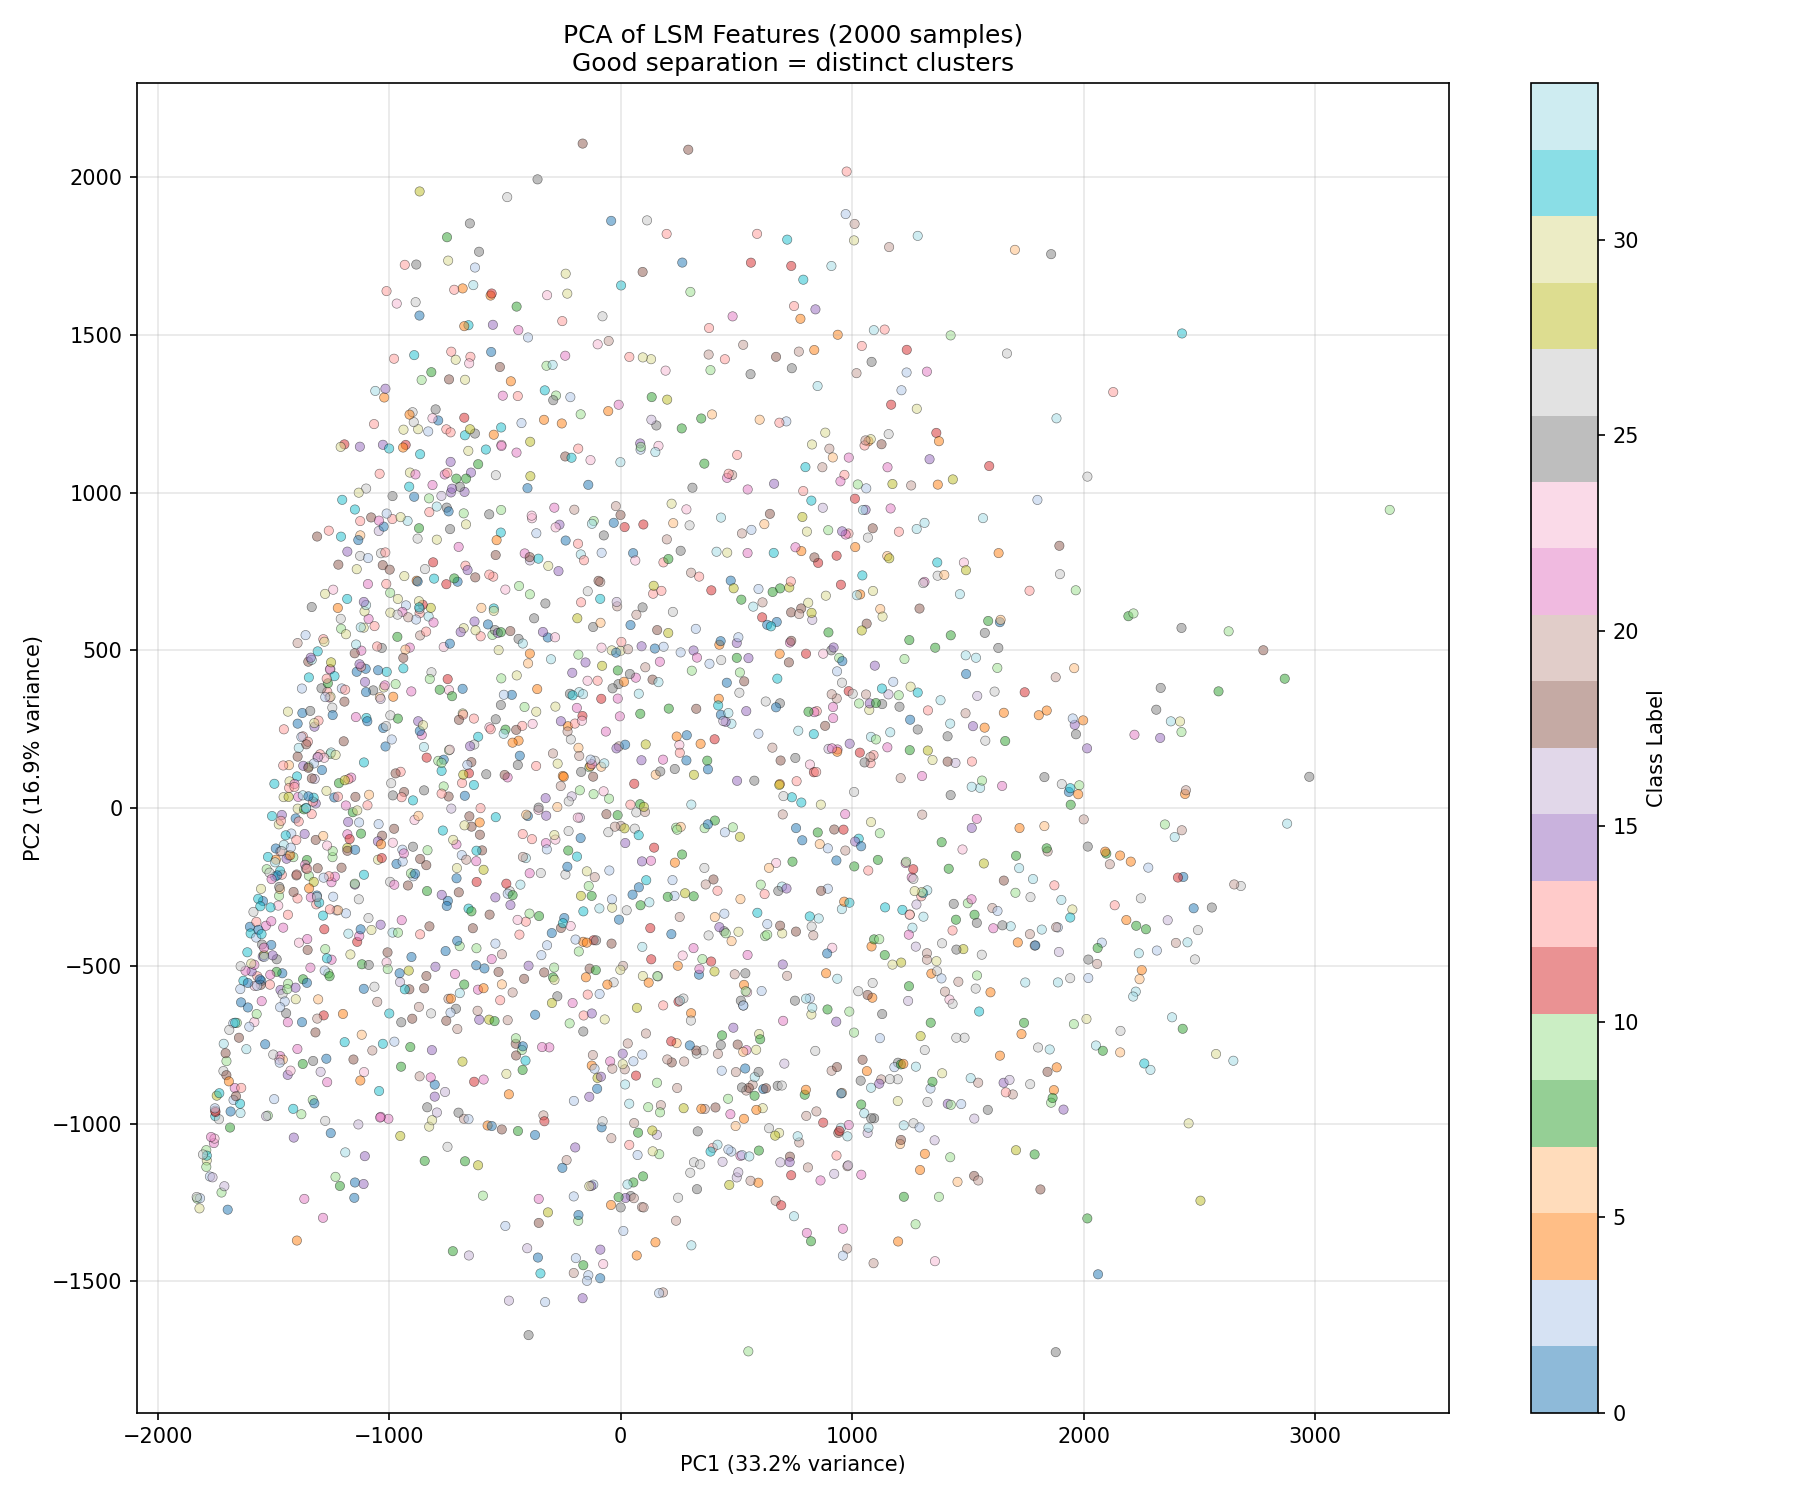
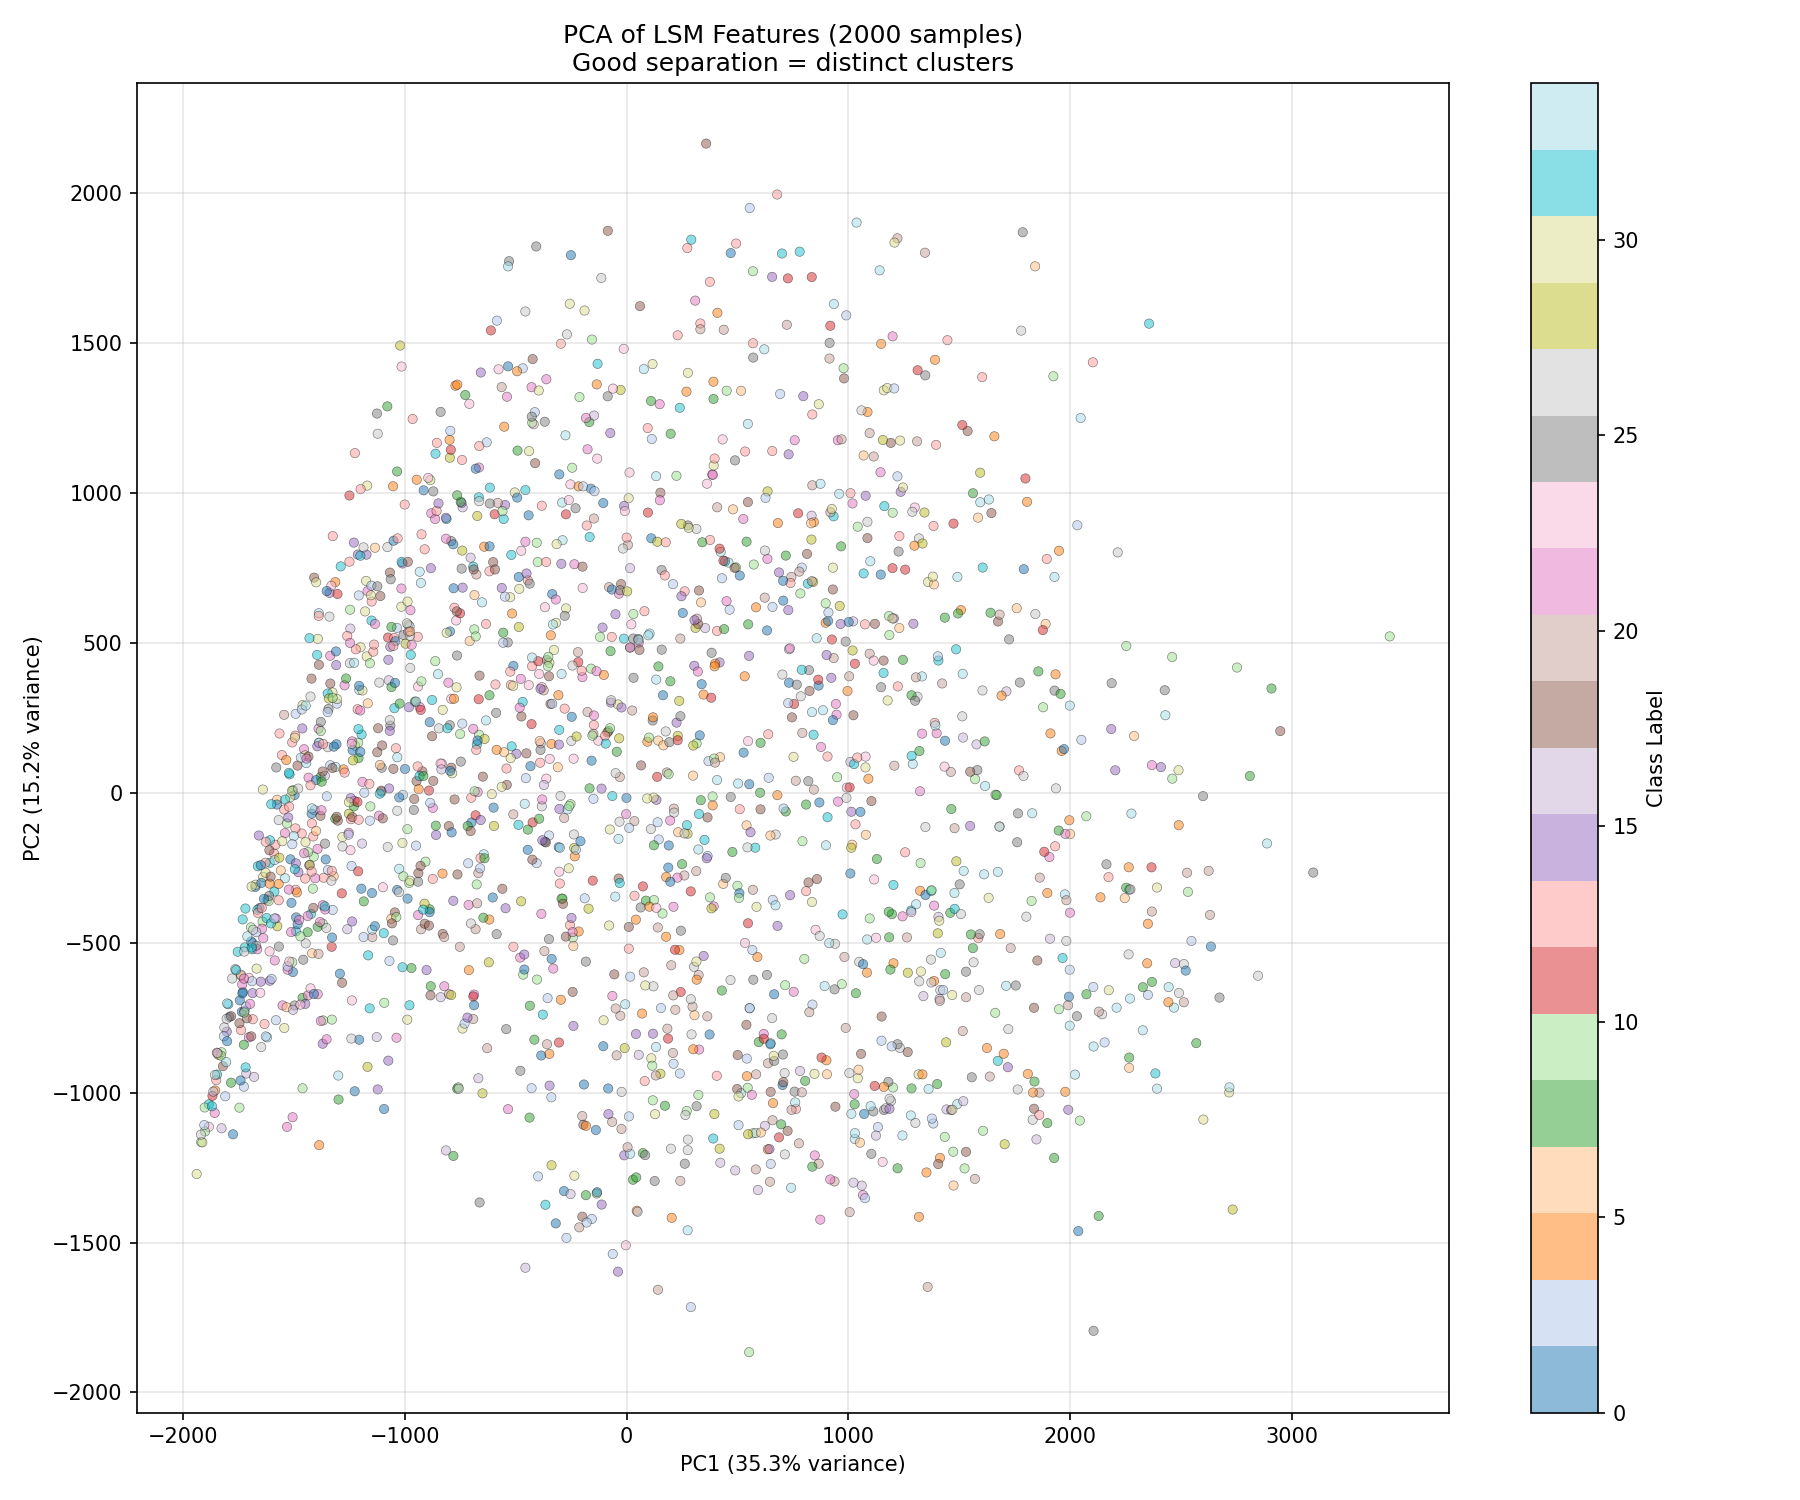
using all classes

diff --git a/extract_lsm_features.py b/extract_lsm_features.py
@@ -8,14 +8,13 @@ from pathlib import Path
 
 # TUNED PARAMETERS - Finding the balance
 NUM_NEURONS = 1000
-NUM_OUTPUT_NEURONS = 400      # Reduced from 400
-LEAK_COEFFICIENT = 0        # Non-zero for decay
+NUM_OUTPUT_NEURONS = 400     
+LEAK_COEFFICIENT = 0        
 REFRACTORY_PERIOD = 4
 MEMBRANE_THRESHOLD = 2
 SMALL_WORLD_P = 0.2
-SMALL_WORLD_K = 100            # Reduced connectivity
+SMALL_WORLD_K = 200            
 
-# Key tuning parameter - we'll try multiple values
 WEIGHT_MULTIPLIERS_TO_TRY = [0.25, 0.35, 0.45, 0.55, 0.65, 0.75, 0.85, 0.95]  # Try range around critical
 
 np.random.seed(42)
@@ -220,7 +219,7 @@ def main():
     params = SimulationParams(
         num_neurons=NUM_NEURONS,
         mean_weight=optimal_weight,
-        weight_variance=optimal_weight * 0.5,
+        weight_variance=optimal_weight * 5,
         num_output_neurons=NUM_OUTPUT_NEURONS,
         is_random_uniform=False,
         membrane_threshold=MEMBRANE_THRESHOLD,
@@ -264,7 +263,6 @@ def main():
         y_train=y_train,
         X_test_features=X_test_features,
         y_test=y_test,
-        # Save configuration for reference
         weight_multiplier=optimal_multiplier,
         final_weight=optimal_weight,
         train_activity_pct=train_activity,
